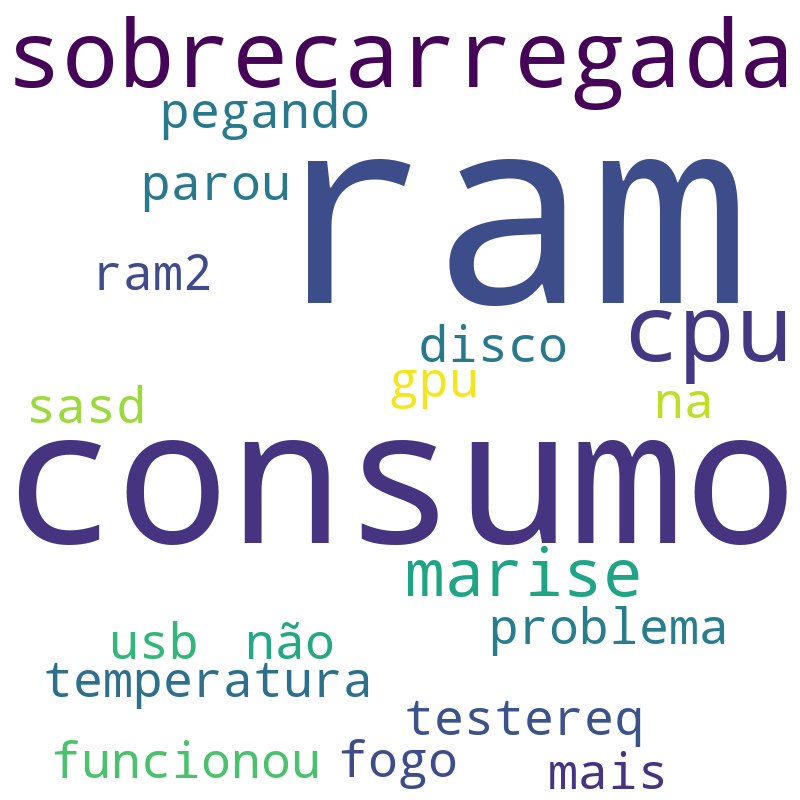
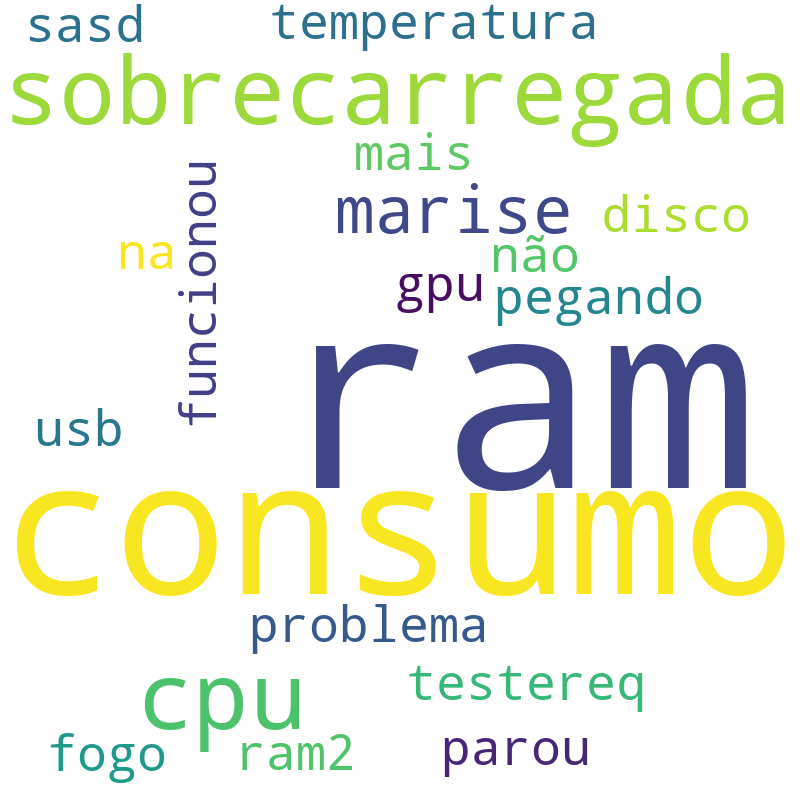
AVISA QUE FEZ COMMIT

Changed region(s): [[0.0, 0.0, 1.0, 1.0], [0.0, 0.4688, 0.1875, 0.75]]

diff --git a/Python/mainFlex.py b/Python/mainFlex.py
@@ -21,14 +21,14 @@ def alertarComponente(tipo,fkMysql,fkAzure):
     data_e_hora_atuais = datetime.now()
     data_e_hora_em_texto = data_e_hora_atuais.strftime('%d/%m/%Y %H:%M')
     msg = "Consumo " +tipo+" - " + data_e_hora_em_texto
-    #pipefyCard.enviarWorldCloud(msg)
+    pipefyCard.enviarWorldCloud(msg)
 
 def alertarRAM(fkMysql,fkAzure):
-    if(psutil.virtual_memory().percent>50):
+    if(psutil.virtual_memory().percent>1):
         alertarComponente("RAM",fkMysql,fkAzure)
 
 def alertarCPU(fkMysql,fkAzure):
-    if(psutil.cpu_percent(interval=None, percpu=False)>1):
+    if(psutil.cpu_percent(interval=None, percpu=False)>0):
         alertarComponente("CPU",fkMysql,fkAzure)
 
 
@@ -43,7 +43,7 @@ def cadastrarRede(fkServidor1,fkServidor2,tipo):
     connection.commit()
     connection2.commit()
 
-connection = mysql.connector.connect(host="localhost", user="aluno", password="sptech", database="bolsa",auth_plugin='mysql_native_password')
+connection = mysql.connector.connect(host="172.17.0.2", user="root", password="123", database="bolsa",auth_plugin='mysql_native_password')
 cursor = connection.cursor()
 
 connection2 = pymssql.connect("serverrabbit.database.windows.net", "rabbit", "RabMonSys@", "RabbitBanco")
@@ -81,25 +81,31 @@ def verificar(email, senha):
 
 def executarMonitoramento():
     while True:
-        query = ("SELECT * from parametro INNER JOIN servidor ON fkServidor = idServidor WHERE macAddress = %s and parametroAtivo = 1")
-        cursor2.execute(query, gma())
-        resposta = cursor2.fetchall()
-        for row in resposta:
-
+        queryPai = ("SELECT * from parametro INNER JOIN servidor ON fkServidor = idServidor WHERE macAddress = %s and parametroAtivo = 1")
+        cursor.execute(queryPai, [gma(),])
+        resposta1 = cursor.fetchall()
+        for row in resposta1:  
+             query = ("SELECT * FROM metrica WHERE idMetrica = %s")
+             cursor.execute(query, [row[1]])
+             resultado = cursor.fetchall()
+             leitura = dicionarioComandos.comando(resultado[0][1],comandos[1])
+             query = ("INSERT INTO leitura(horarioLeitura,valorLeitura,fkComponenteFisico,fkMetrica) VALUES(NOW(), %s, %s, %s)")
+             val = (str(leitura),str(row[0]),str(row[1]))
+             cursor.execute(query, val)
+             connection.commit()
+        cursor2.execute(queryPai, gma())
+        resposta2 = cursor2.fetchall()
+        for row in resposta2:
             query = ("SELECT * FROM metrica WHERE idMetrica = %s")
             cursor2.execute(query, row['fkMetrica'])
             resultado = cursor2.fetchall()
             leitura = dicionarioComandos.comando(resultado[0]['idMetrica'],comandos[1])
-            query = ("INSERT INTO leitura(horarioLeitura,valorLeitura,fkComponenteFisico,fkMetrica) VALUES(NOW(), %s, %s, %s)")
             query2 = ("INSERT INTO leitura(horarioLeitura,valorLeitura,fkComponenteFisico,fkMetrica) VALUES(CURRENT_TIMESTAMP, %s, %s, %s)")
             val = (str(leitura),str(row['fkComponenteFisico']),str(row['fkMetrica']))
-            cursor.execute(query, val)
             cursor2.execute(query2, val)
-            connection.commit()
             connection2.commit()
             lastIDAZURE = cursor2.lastrowid
             lastIDMYSQL = cursor.lastrowid
-            print(resultado)
             if(resultado[0]['idMetrica']==3):
                 alertarRAM(lastIDMYSQL,lastIDAZURE)
             if(resultado[0]['idMetrica']==1):

diff --git a/Python/redeDados.py b/Python/redeDados.py
@@ -1,26 +1,29 @@
+
 from psutil import net_io_counters
 from time import sleep
 from getmac import get_mac_address as gma
 import pymssql
 import mysql.connector
 
-
-connection = mysql.connector.connect(host="localhost", user="aluno", password="sptech", database="bolsa")
+connection = mysql.connector.connect(host="172.17.0.2", user="root", password="123", database="bolsa")
 cursor = connection.cursor()
 connection2 = pymssql.connect("serverrabbit.database.windows.net", "rabbit", "RabMonSys@", "RabbitBanco")
 cursor2 = connection2.cursor(as_dict=True)
 
-def salvar(resposta,fkRedePar):
+def salvar(fk1,fk2,rede):
+    print(rede)
+    template = (net_usage(rede)[0],net_usage(rede)[1],net_usage(rede)[2],net_usage(rede)[3])
     query = "INSERT INTO dadosRede (fkRede,packetsRecv,packetsSent,bytesSent,bytesRecv,horarioLeitura) VALUES (%s,%s, %s,%s, %s, NOW())"
     query2 = "INSERT INTO dadosRede (fkRede,packetsRecv,packetsSent,bytesSent,bytesRecv,horarioLeitura) VALUES (%s,%s, %s,%s, %s, CURRENT_TIMESTAMP)"
-    params = (fkRedePar,net_usage(resposta)[0],net_usage(resposta)[1],net_usage(resposta)[2],net_usage(resposta)[3])
-    cursor.execute(query, params)
-    cursor2.execute(query2,params)
+    params1 = (fk1,template[0],template[1],template[2],template[3])
+    params2 = (fk2,template[0],template[1],template[2],template[3])
+    cursor.execute(query, params1)
+    cursor2.execute(query2,params2)
     connection.commit()
     connection2.commit()
     print("Executando")
 
-def net_usage(inf):   #change the inf variable according to the interface
+def net_usage(inf):
     net_stat = net_io_counters(pernic=True, nowrap=True)[inf]
     net_in_1 = net_stat.bytes_recv
     net_out_1 = net_stat.bytes_sent
@@ -48,9 +51,8 @@ query = ("SELECT idRede,tipoConexao FROM rede INNER JOIN servidor ON fkServidor 
 a = cursor2.execute(query, gma())
 b = cursor.execute(query, [gma(),])
 solucaoA = cursor.fetchall()
-solucao = str(solucaoA[0][0])
+solucaoA1 = solucaoA[0][0]
 solucaoB = cursor2.fetchall()
-solucao = str(solucaoB[0]['idRede'])
-if(solucao==solucao):
-    while(True):
-        salvar(solucaoA[0][1],solucao)
+solucaoB1 = solucaoB[0]['idRede']
+while(True):
+        salvar(solucaoA1,solucaoB1,solucaoA[0][1])

diff --git a/Python/word.py b/Python/word.py
@@ -33,4 +33,4 @@ def plotarWordcloud(frases):
 	data_em_texto = data_em_texto.replace("/","-")
 	nome="wordlcloud-"+data_em_texto
 	nome +=".png"
-	plt.savefig("Site/public/dashboard/img/wordcloud/"+nome)
+	plt.savefig("../Site/public/dashboard/img/wordcloud/"+nome)
